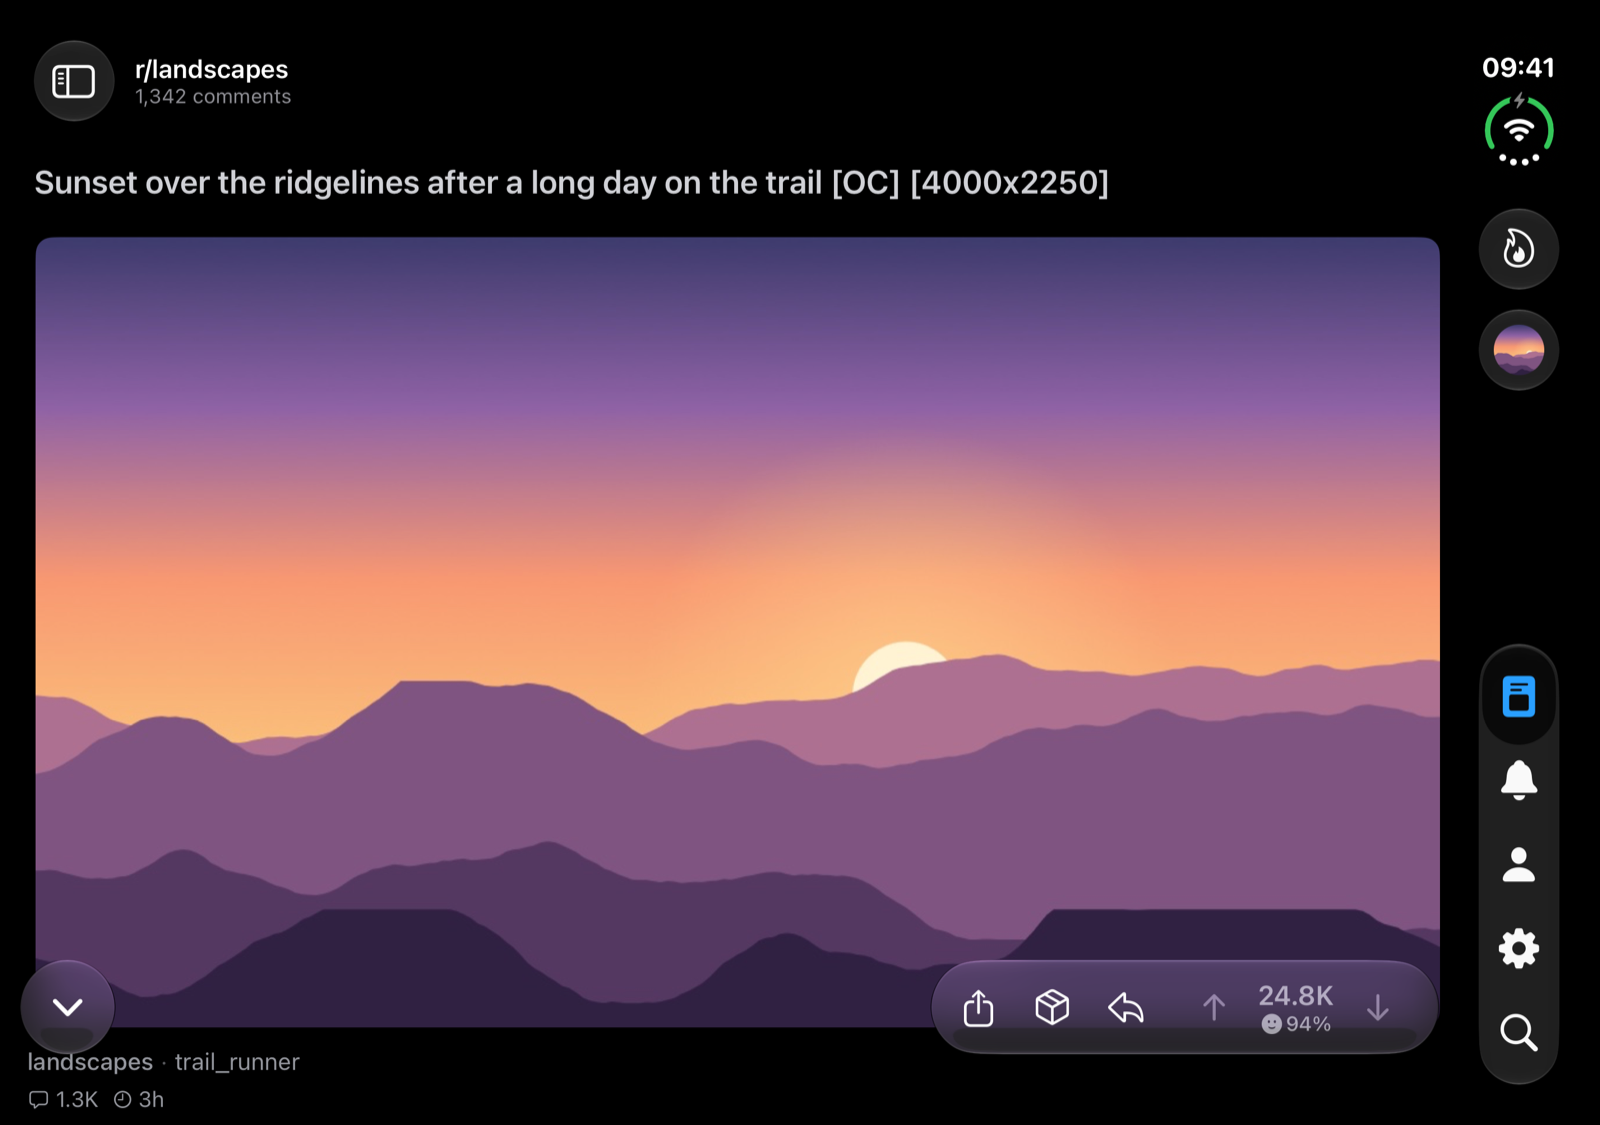
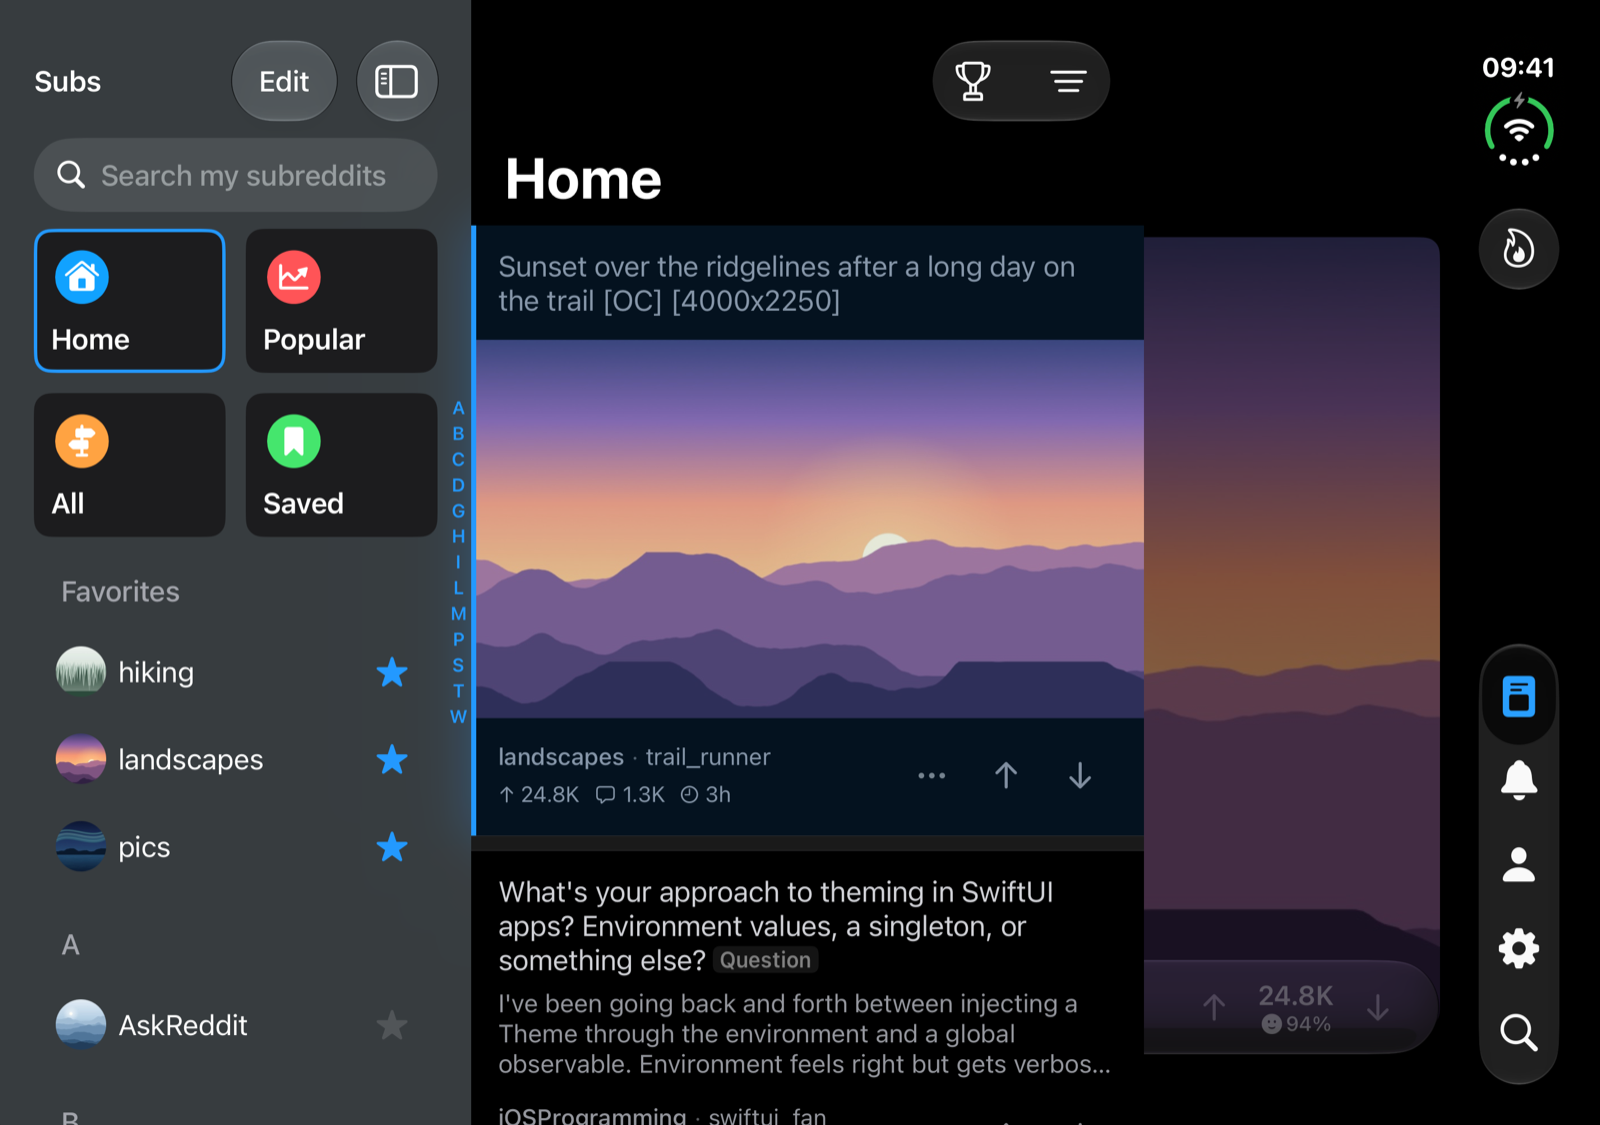
docs: show the unfolded iPhone Duo with its subreddits sidebar and feed
The unfolded Duo shot now shows the subreddits sidebar and the Home
feed on the left and the tab bar on the right, so it shows more of
the app than a single post.

diff --git a/README.md b/README.md
@@ -16,7 +16,7 @@ Helio is a privacy-focused, open-source Reddit client for iOS and Mac. No analyt
 
 <p align="center">
   <img src="docs/screenshots/ipad.png" alt="Helio on iPad in dark mode: subreddits sidebar, Home feed and an open post with comments" width="41%">
-  <img src="docs/screenshots/iphone-duo.png" alt="Helio on an unfolded iPhone Duo in landscape and dark mode: an open post, with the tab bar along the right edge" width="43%">
+  <img src="docs/screenshots/iphone-duo.png" alt="Helio on an unfolded iPhone Duo in landscape and dark mode: subreddits sidebar and Home feed on the left, tab bar along the right edge" width="43%">
   <img src="docs/screenshots/iphone.png" alt="Helio on iPhone: Home feed" width="13.5%">
 </p>
 
